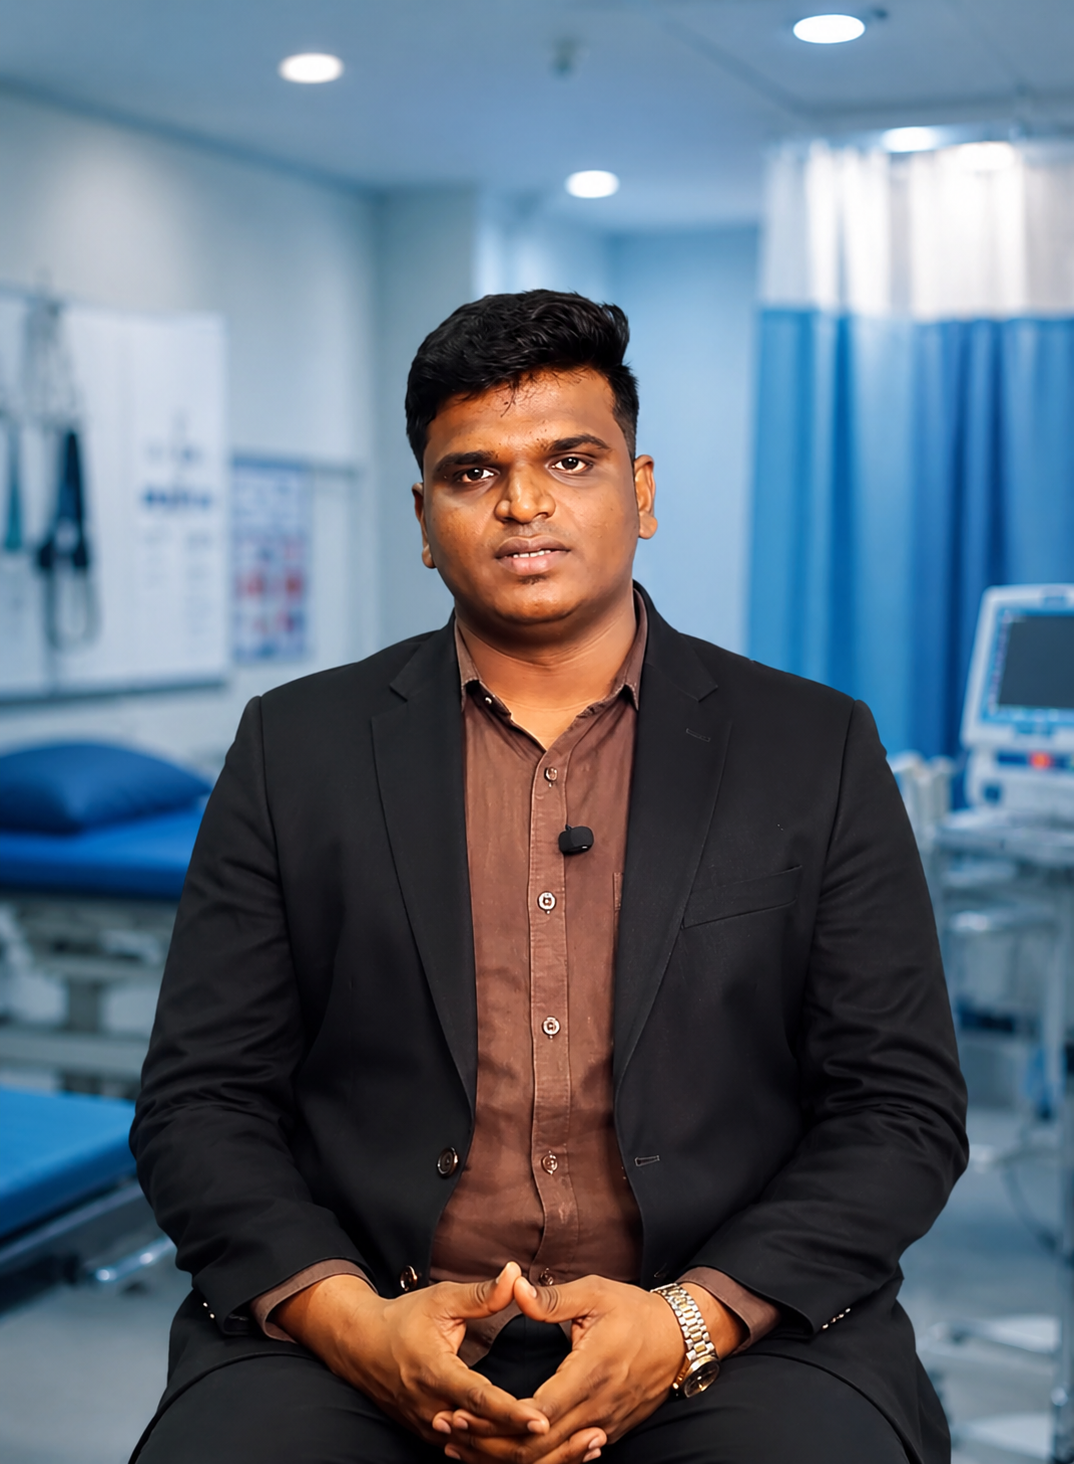
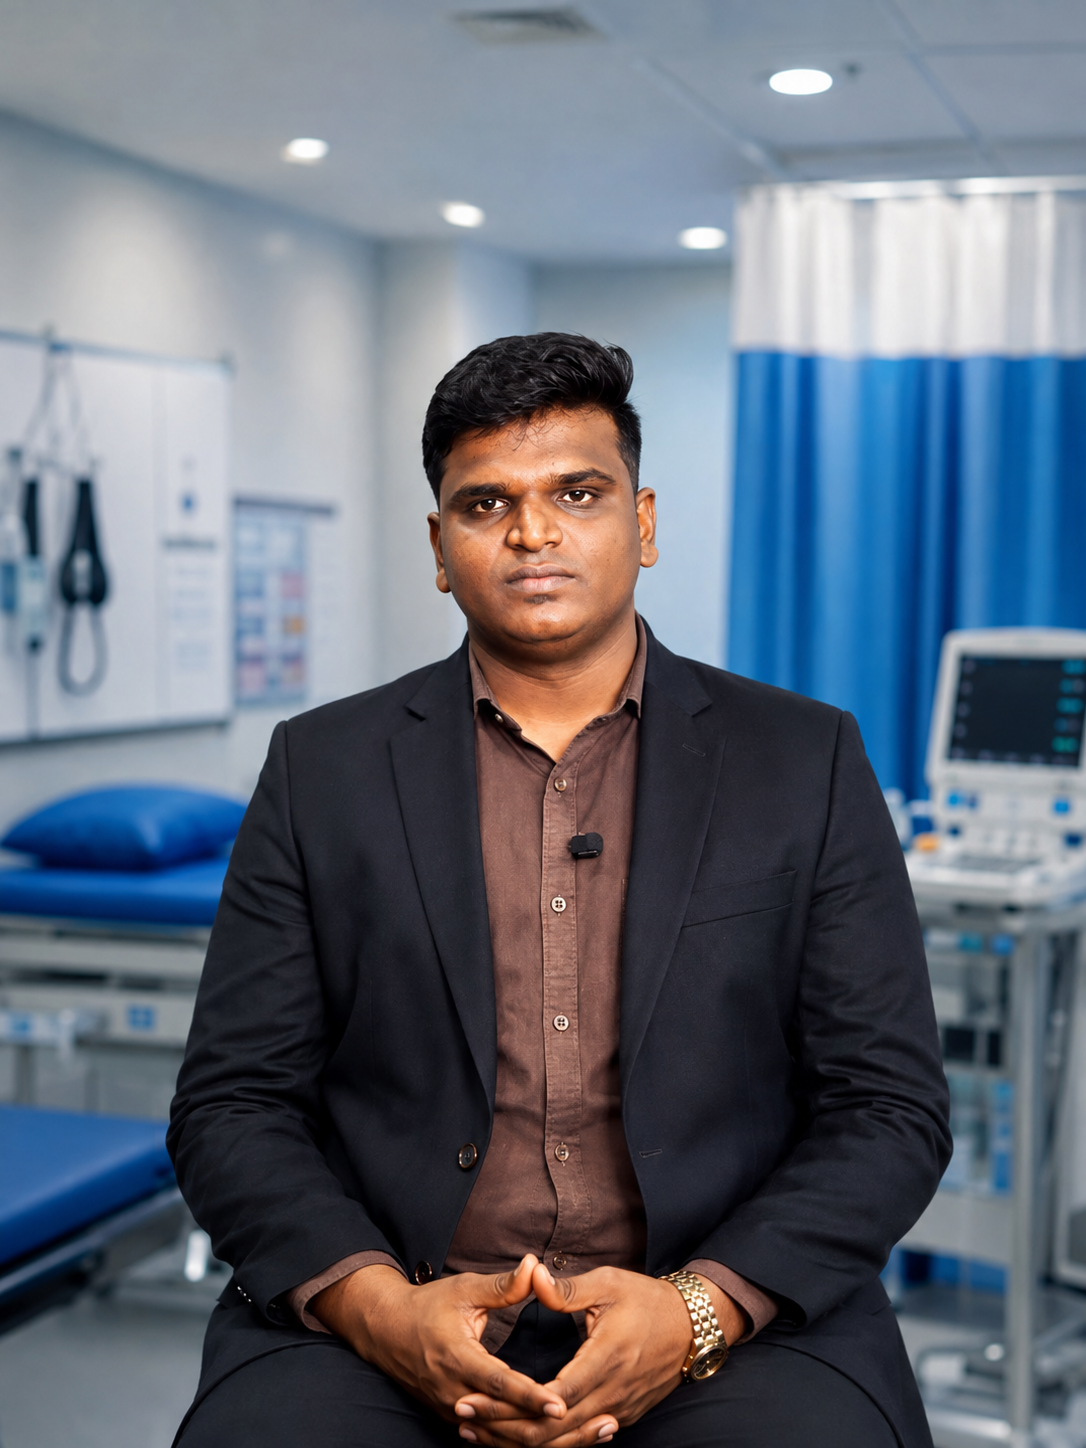
Update about page

diff --git a/src/components/home/WhyChooseUs.jsx b/src/components/home/WhyChooseUs.jsx
@@ -83,9 +83,6 @@ export const WhyChooseUs = () => {
                   <span className="font-heading text-4xl sm:text-5xl font-extrabold text-[#1B8480]">
                     {currentItem.num}
                   </span>
-                  <span className="text-xs font-bold uppercase tracking-[0.2em] text-[#C9952E] bg-[#C9952E]/15 px-3.5 py-1.5 rounded-full border border-[#C9952E]/30">
-                    Pillar {currentItem.num} of 04
-                  </span>
                 </div>
 
                 <h3 className="font-heading text-2xl sm:text-3xl md:text-4xl font-extrabold text-white">

diff --git a/src/components/home/About.jsx b/src/components/home/About.jsx
@@ -21,7 +21,7 @@ export const About = () => {
               <img
                 src="/images/clinic/about_physio2.png"
                 alt="Physiotherapy session at Jeevan Physiotherapy Clinic"
-                className="w-full h-[340px] sm:h-[460px] lg:h-[520px] object-cover object-top rounded-none transition-all duration-300"
+                className="w-full h-auto max-h-[520px] object-contain sm:object-cover object-top rounded-none transition-all duration-300 mx-auto"
               />
             </div>
           </motion.div>

diff --git a/src/pages/About.jsx b/src/pages/About.jsx
@@ -55,7 +55,7 @@ export const AboutPage = () => {
                 <img
                   src="/images/clinic/about_physio.png"
                   alt="Physiotherapy evaluation session"
-                  className="w-full h-[340px] sm:h-[460px] lg:h-[520px] object-cover object-top rounded-none transition-all duration-300"
+                  className="w-full h-auto max-h-[520px] object-contain sm:object-cover object-top rounded-none transition-all duration-300 mx-auto"
                 />
               </div>
             </div>
